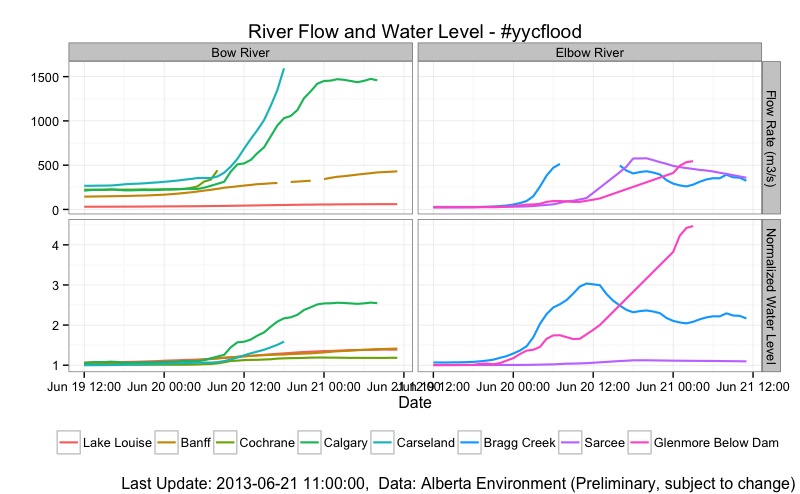
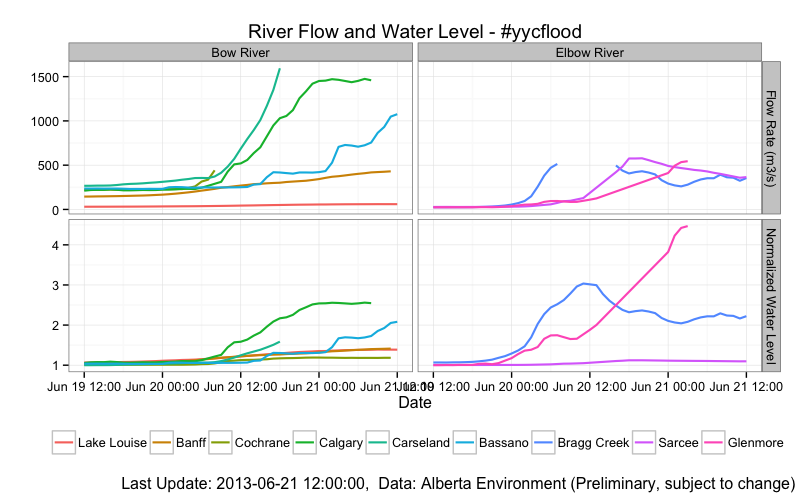
Updated to include Bassano.

diff --git a/README.md b/README.md
@@ -1,10 +1,22 @@
-yycflood River Data
+Alberta Bow River Basin: Flow & Water Level Data (\#yycflood)
 ========
+
+### Summary
 
 This R analysis pulls river flow and height data from Alberta Environment, and generates a plot for both the Bow & Elbow rivers showing flow-rate trends and normalized water levels (relative to pre-flood levels). 
 
+### Flow & Water Level Plots
+
 ![yycflood](yycflood_riverplots.png)
 
-Data from Alberta Environment:
+**Note:** Real-time data is subject to revision.
+
+---------------------------
+
+### Data Sources:
+
+Alberta Environment:
 http://www.environment.alberta.ca/apps/basins/default.aspx
 
+Environment Canada (Wateroffice):
+http://www.wateroffice.ec.gc.ca/graph/graph_e.html?stn=05BH004
